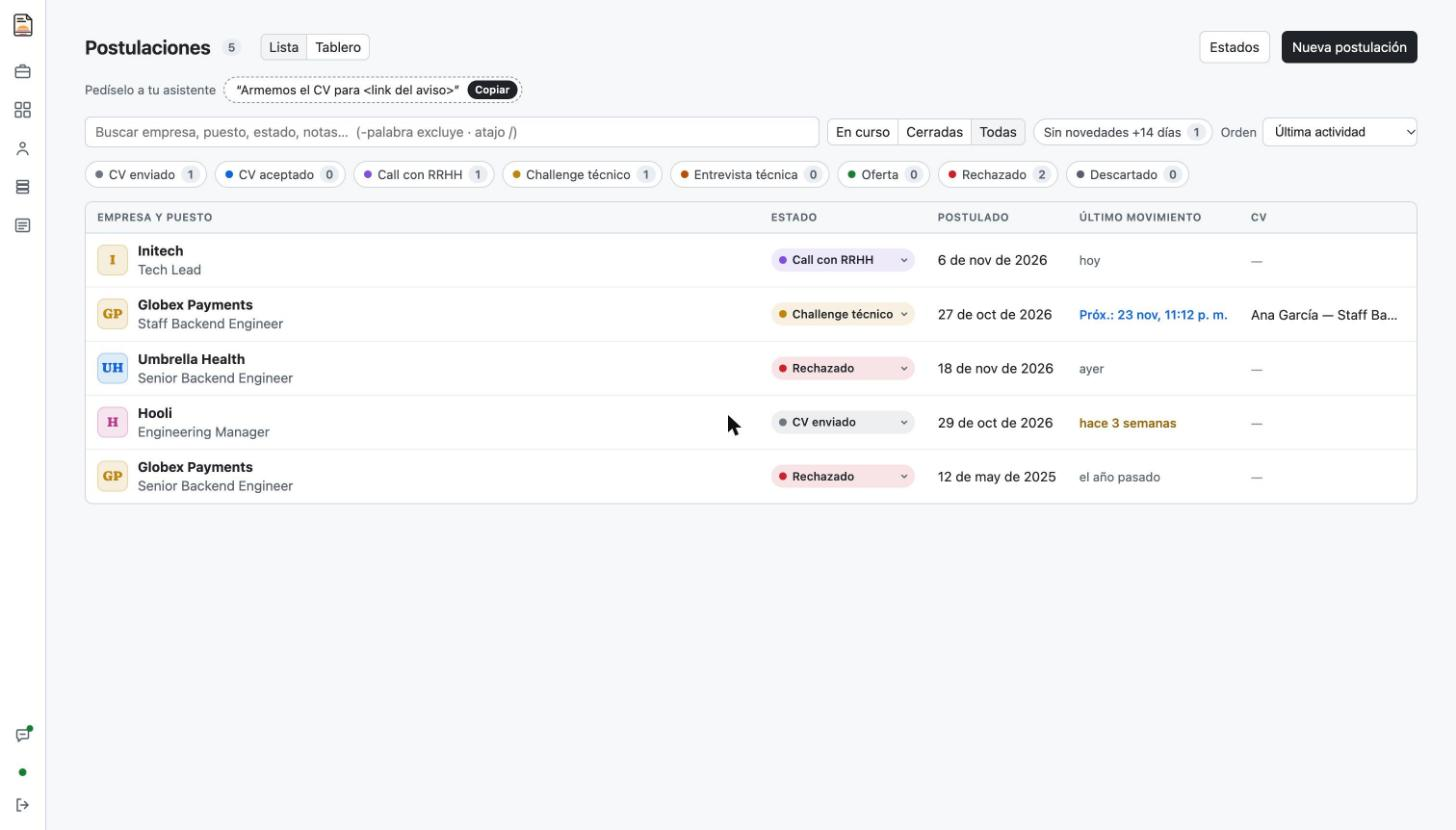
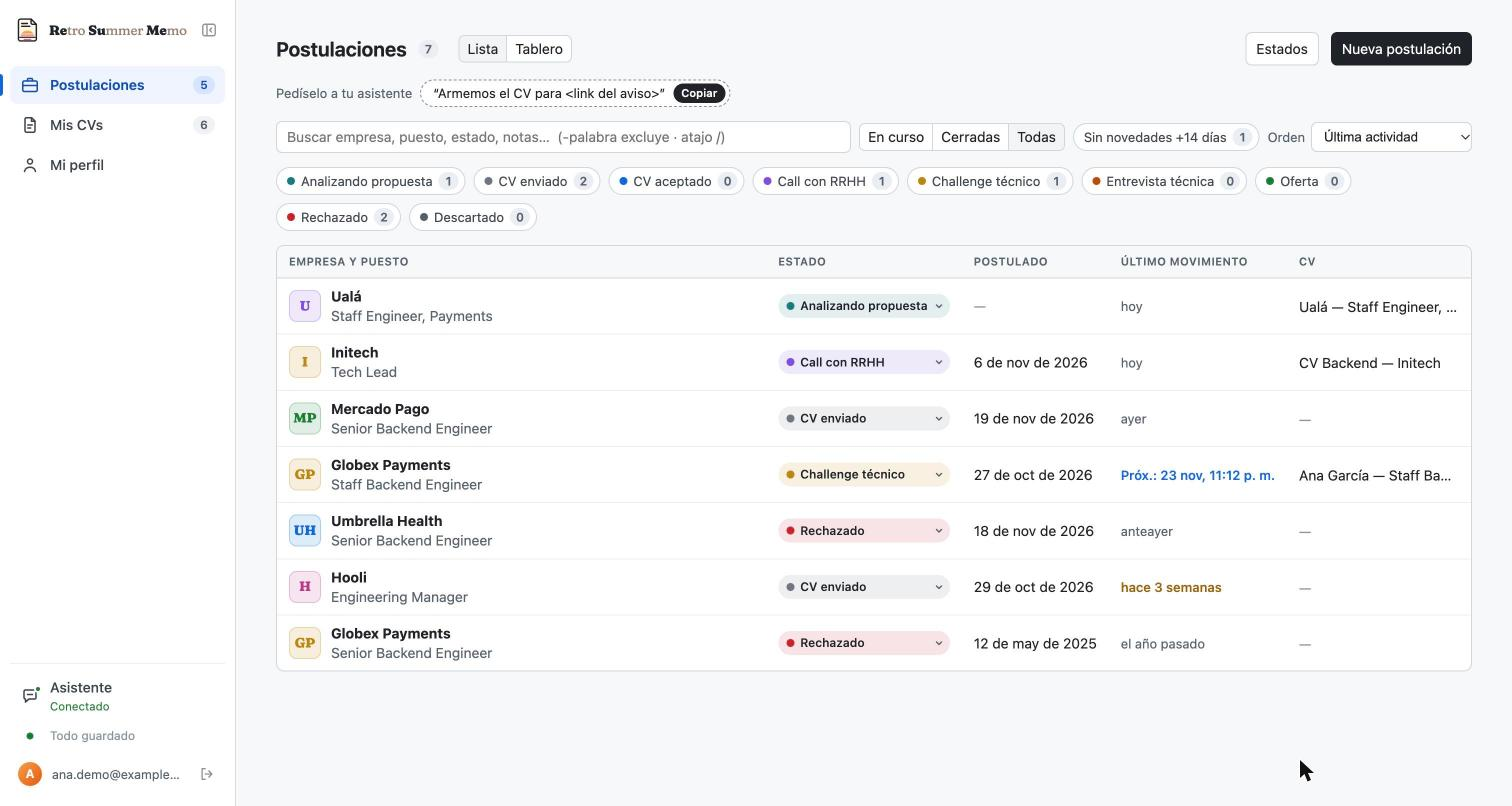
README and screenshots: the three sections, Mis CVs and an application's CV
Claude-Session: https://claude.ai/code/session_013Vy6vwFJwymaofuf4ZeJLP

diff --git a/src/ui/components/Sidebar.tsx b/src/ui/components/Sidebar.tsx
@@ -19,9 +19,9 @@ type SidebarProps = {
 
 const collapsedKey = 'resume.navCollapsed.v1'
 
-const items: { id: Section; label: string; hint: string; icon: ReactNode }[] = [
-  { id: 'applications', label: 'Postulaciones', hint: 'Los puestos a los que te postulaste y cómo viene cada proceso', icon: <ApplicationsIcon /> },
-  { id: 'cvs', label: 'Mis CVs', hint: 'Tus CVs por rol y los de cada postulación', icon: <CvsIcon /> },
+const items: { id: Section; label: string; hint: string; counted?: string; icon: ReactNode }[] = [
+  { id: 'applications', label: 'Postulaciones', hint: 'Los puestos a los que te postulaste y cómo viene cada proceso', counted: 'en curso', icon: <ApplicationsIcon /> },
+  { id: 'cvs', label: 'Mis CVs', hint: 'Tus CVs por rol y los de cada postulación', counted: 'CVs', icon: <CvsIcon /> },
   { id: 'profile', label: 'Mi perfil', hint: 'Tus datos, tu trayectoria y tus logros: de acá salen todos tus CVs', icon: <ProfileIcon /> },
 ]
 
@@ -78,7 +78,11 @@ export function Sidebar({ section, onNavigate, counts = {}, save, onRetrySave, a
               >
                 <span className="nav-icon">{item.icon}</span>
                 <span className="nav-label">{item.label}</span>
-                {count ? <span className="nav-count">{count}</span> : null}
+                {count ? (
+                  <span className="nav-count" title={`${count} ${item.counted ?? ''}`.trim()}>
+                    {count}
+                  </span>
+                ) : null}
               </button>
             </li>
           )

diff --git a/README.md b/README.md
@@ -1,28 +1,43 @@
 # CV builder + job applications tracker
 
-Build tailored CVs in a visual editor (the CV live on a canvas, with panels for its content,
-sections, design, an analysis with a score, the target posting and fixed versions), and track
-every application you send:
-which CV (exact version) went where, what step each process is in, and whether you already
-applied to that posting or role before. Each application opens as a page with the process step by
-step (how each call or interview went: what they asked, what you said and did not say, what they
-liked) next to everything known about the company: logo, what it does, mission, vision, values,
-and dated notes on news, layoffs, hiring, other openings and how others' interviews went.
+Three sections: **Postulaciones**, **Mis CVs** and **Mi perfil**, each with its own URL.
+
+- **Mis CVs**: general CVs, one per role or profile ("CV React", "CV Arquitecto"), made from the
+  whole profile, from another CV or from scratch. Each is edited in a visual editor (the CV live on
+  a canvas, with panels for its content, sections, design, an analysis with a score, the target
+  posting and fixed versions).
+- **Postulaciones**: every application you send, what step each process is in, and whether you
+  already applied to that posting or role before. Each application is a page with three tabs: the
+  process step by step (how each call or interview went: what they asked, what you said and did not
+  say, what they liked), **its own CV** (a copy of one of your general CVs, tailored to that posting
+  in the same editor, with the exact version you sent), and everything known about the company:
+  logo, what it does, mission, vision, values, and dated notes on news, layoffs, hiring, other
+  openings and how others' interviews went.
+- **Mi perfil**: your data and career, your achievements (one CV line each) and the CV sections:
+  what every CV is made from, entered once.
 
 It is driven by your assistant (ChatGPT, Claude, Gemini…) through an MCP server: "Preparemos mi
 Resume", a bare posting link, "Armemos el CV para <link>", "Mañana tengo call con RRHH de Acme",
 "Recién salí de la call con RRHH, te cuento…", "Investigá Acme". The app is the engine and the
 viewer, and shows the assistant's changes live.
 
-| Applications | The CV editor: click any part of the page to edit it |
+| Mis CVs: a general CV per role, and the CV of each application | An application's CV, in the editor, in its own tab |
 | --- | --- |
-| ![Applications](docs/screenshots/05-applications.jpg) | ![CV editor](docs/screenshots/13-cv-preview.jpg) |
+| ![Mis CVs](docs/screenshots/21-my-cvs.jpg) | ![An application's CV](docs/screenshots/23-application-cv.jpg) |
+
+| Starting an application's CV from a general one | Applications |
+| --- | --- |
+| ![Pick the CV to start from](docs/screenshots/22-application-cv-start.jpg) | ![Applications](docs/screenshots/05-applications.jpg) |
+
+| The CV editor: click any part of the page to edit it | Mi perfil |
+| --- | --- |
+| ![CV editor](docs/screenshots/13-cv-preview.jpg) | ![Mi perfil](docs/screenshots/24-profile.jpg) |
 
 | How it reads to a screening filter and a recruiter | Template, color and typography |
 | --- | --- |
 | ![CV analysis](docs/screenshots/16-cv-analysis.jpg) | ![CV design](docs/screenshots/17-cv-design.jpg) |
 
-| An application: the process and the company | How each step went, and what is known about the company |
+| An application: the process, its CV and the company | How each step went, and what is known about the company |
 | --- | --- |
 | ![Application page](docs/screenshots/06-application-detail.jpg) | ![Debriefs and company notes](docs/screenshots/07-application-history.jpg) |
 
@@ -133,10 +148,13 @@ MCP server at **`https://retro-summer-memo.com/mcp`**: `vercel.json` forwards it
     projects, or any section the user adds), `list_experiences`, `save_experience` (linked to the
     entry where it happened), `delete_experiences`, `set_experience_levels`, `import_career`
     (a whole old CV, LinkedIn export or long story in one call; merges instead of duplicating).
-  - CVs: `cv_guidelines` (how to build CVs that pass ATS/AI screening and land), `build_cv` (a
-    selection; the server lays out the graph, generates the version and returns an outline and a
-    review: length, summary, results, wording, keywords backed by the bank), `update_cv`,
-    `build_cv_version`, `delete_cv`.
+  - CVs: `cv_guidelines` (how to build CVs that pass ATS/AI screening and land), `list_cvs`
+    (general CVs, one per role, and the CV of each application), `build_cv` (a selection; the server
+    lays out the graph, generates the version and returns an outline and a review: length, summary,
+    results, wording, keywords backed by the bank; with `application_id` it builds or rebuilds that
+    application's CV), `copy_cv` (a new general CV from another, or an application's CV from a
+    general one), `update_cv` (also moves a CV into or out of an application), `build_cv_version`
+    (with `pin_to_application_id`: the version sent), `delete_cv`.
   - Applications: `check_duplicates`, `create_application` (stage `considering`: a posting the user
     is weighing, in "Analizando propuesta", with how it fits their experience; or `applied`),
     `move_application` (leaving "Analizando propuesta" records the day they applied),
